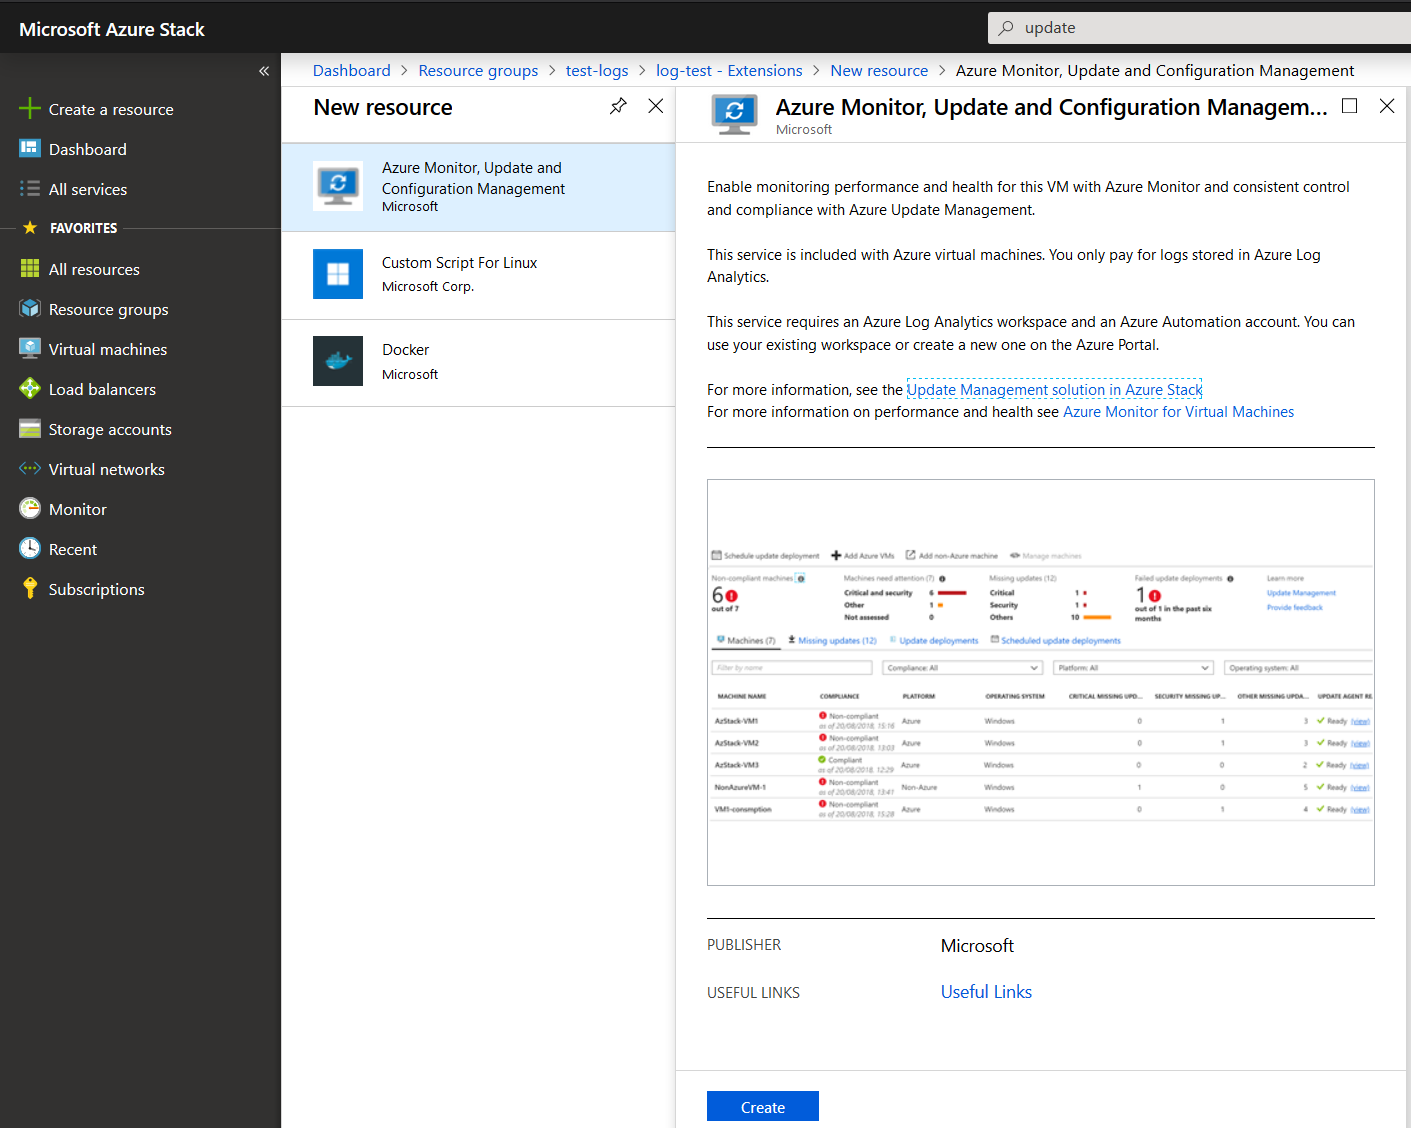
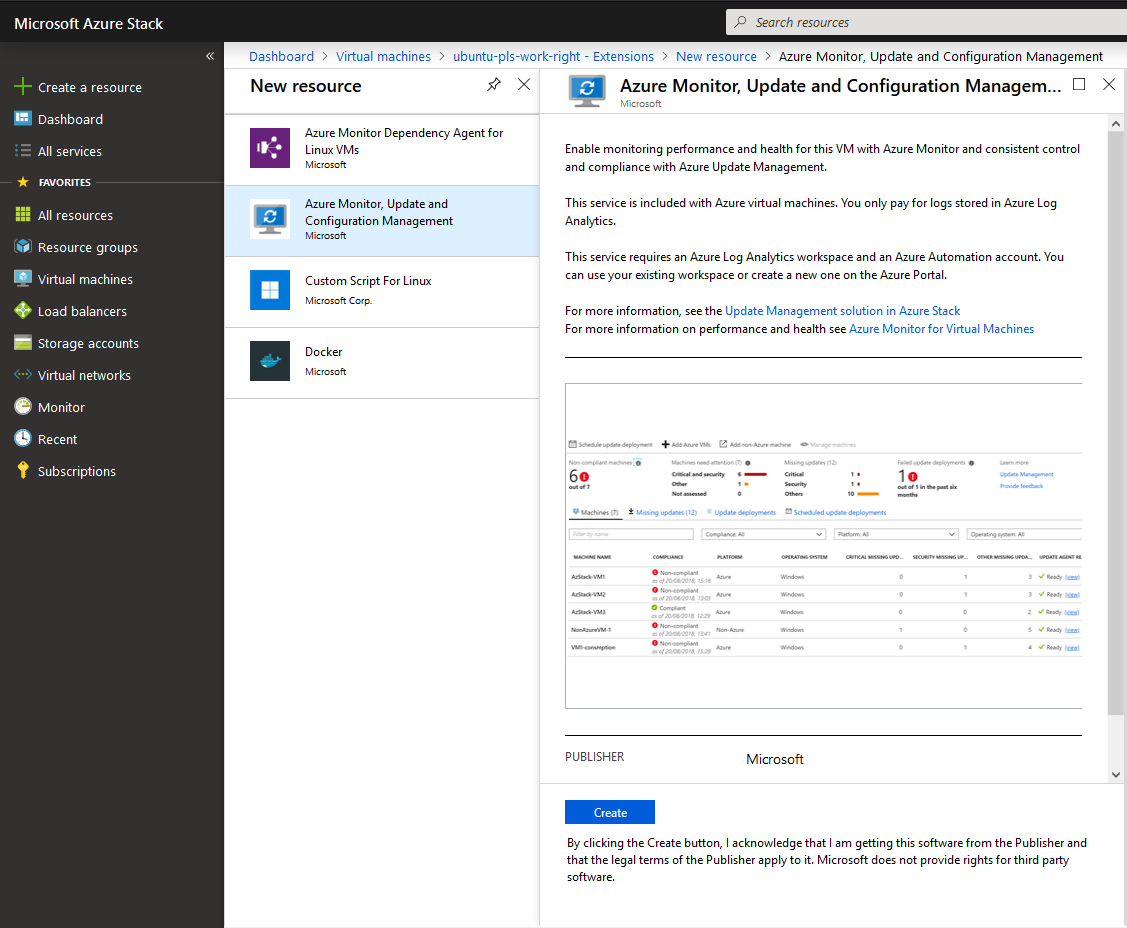
Added more images for automation account.

diff --git a/articles/azure/azs-how-config-vm-update-management.md b/articles/azure/azs-how-config-vm-update-management.md
@@ -115,7 +115,9 @@ To complete the steps in this guide, you must have appropriate access to a subsc
 
     ![VM enable update management](images/azs-browser-log-analytics-enable-update-management.PNG)
 
-7. Once the deployment is finished. Head back to the public azure portal, navigate to the *Log Analytics workspace* -> *Advanced settings* -> *`VMType` Servers*.
+    - Repeat this step for the `Azure Monitor Dependency Agent`.
+
+7. Once the deployment is finished. Head back to the public Azure portal, navigate to the *Log Analytics workspace* -> *Advanced settings* -> *`VMType` Servers*.
 
     - You should now see `x` number of `[VMType]` COMPUTERS CONNECTED. Depending on how many VMs you linked to the workspace.
 
@@ -129,7 +131,7 @@ To complete the steps in this guide, you must have appropriate access to a subsc
 
     - `Heartbeat | where OSType == "VMTYPE" | summarize arg_max(TimeGenerated, *) by SourceComputerId | top 500000 by Computer asc | render table`
 
-    - Example: 
+    - Example for Linux VM: 
 
         `Heartbeat | where OSType == "Linux" | summarize arg_max(TimeGenerated, *) by SourceComputerId | top 500000 by Computer asc | render table`
     
@@ -157,8 +159,20 @@ To complete the steps in this guide, you must have appropriate access to a subsc
 
         > [!NOTE]
         > It can take between 30 minutes and 6 hours for the dashboard to display updated data from managed computers.
+
+Heading to the *Automation Account*, the blades **Inventory**, **Change Tracking** and **Update Management** will provide useful analytics.
+
+![azs-browser-example-inventory](images/azs-browser-example-inventory.PNG)
+
+![azs-browser-example-change-tracking](images/azs-browser-example-change-tracking.PNG)
+
+![azs-browser-example-update-management-compliant-ok](images/azs-browser-example-update-management-compliant-ok.PNG)
     
-10. On public Azure, click **Monitor**, in the *new* blade, under *Insights*, click **Virtual Machines (preview)**. You will see a variety of usage analytics for the VMs you have enabled **VM Update & Management** on.
+On public Azure, click **Monitor**, in the *new* blade, under *Insights*, click **Virtual Machines (preview)**. You will see a variety of usage analytics in the tabs **Health**, **Performance** and **Map** for the VMs you have enabled **VM Update & Management** on.
+
+Image 1 Placeholder.
+
+Image 2 Placeholder.
 
 ## Feedback
 
